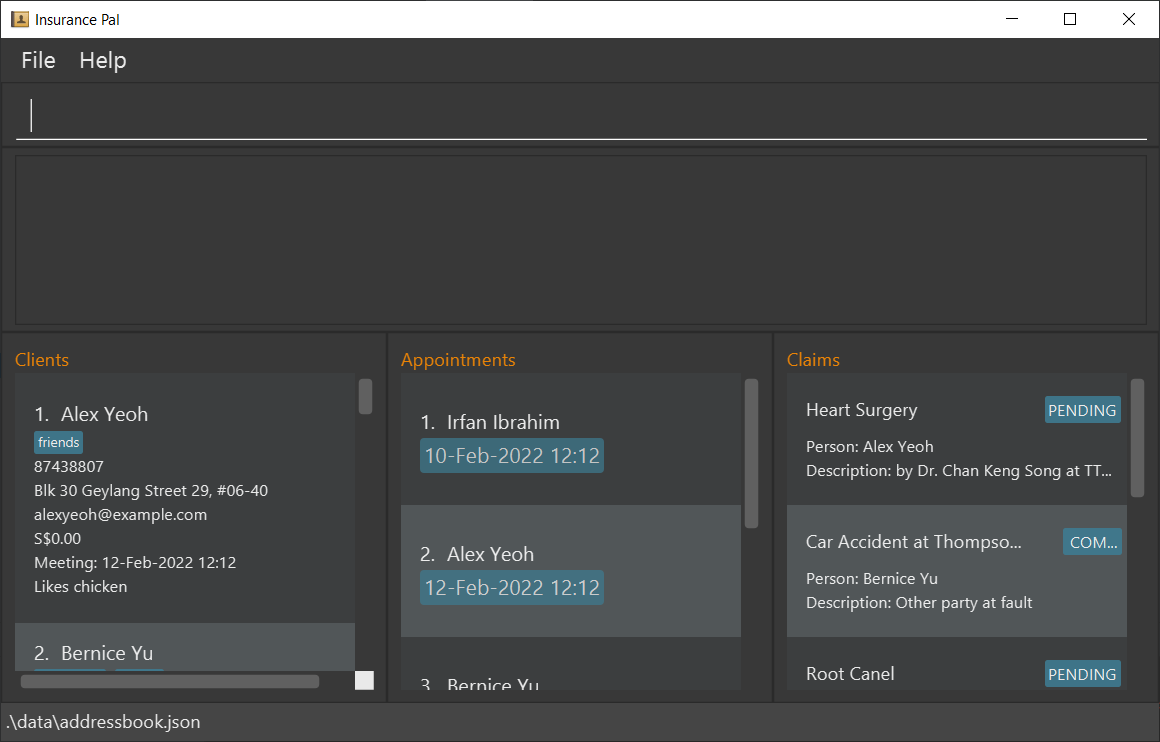
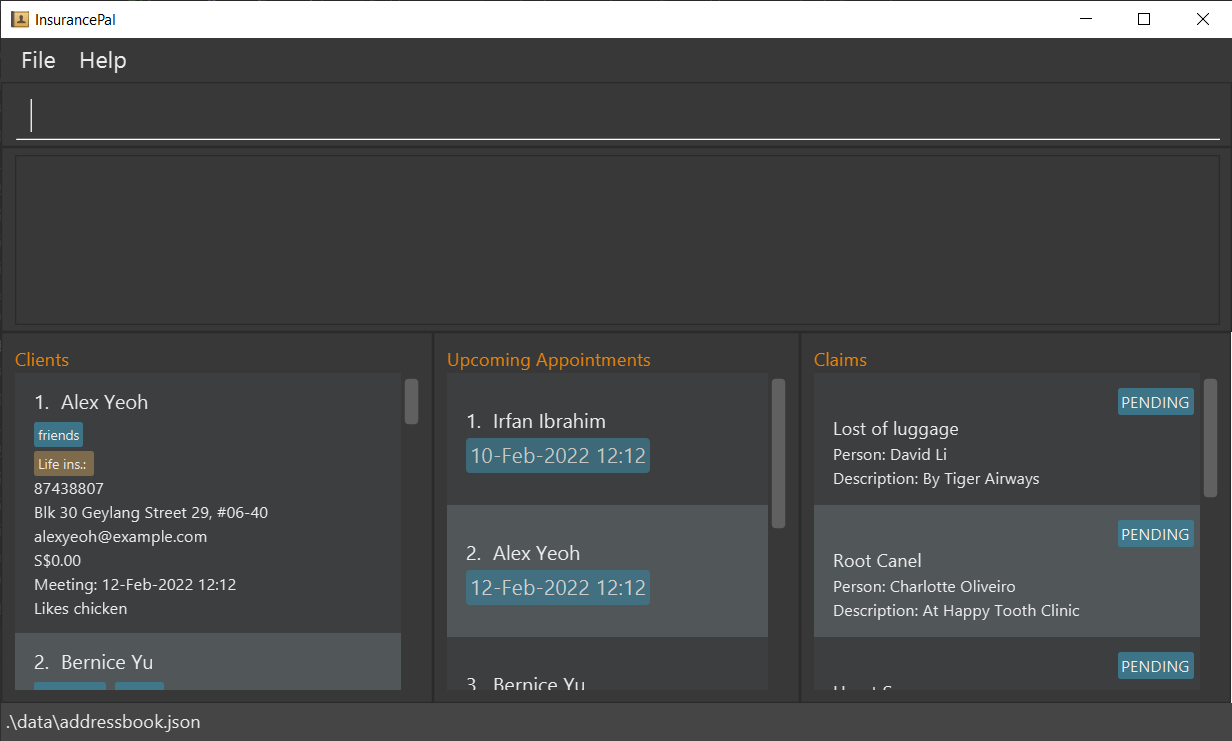
Add screenshots to UG

diff --git a/docs/_sass/minima/custom-styles.scss b/docs/_sass/minima/custom-styles.scss
@@ -38,3 +38,8 @@ h2, h3, h4, h5, h6 {
    }
 }
 
+.center-image {
+    margin: 0 auto;
+    display: block;
+}
+

diff --git a/docs/UserGuide.md b/docs/UserGuide.md
@@ -49,14 +49,17 @@ Action | Parameters| Description
 **Command Box:** You should enter your commands in this input box. More information about the commands can be found in [features](#features)<br>
 **Response Box:** You can see the outcomes of your commands in this text box. <br>
 **Client List:** You can see client information in this list. <br>
-**Upcoming Appointments List:** You can see upcoming appointments in this list. This list is sorted in chronological order. <br>
-**Claims List:** You can see the information about client's claims in this list. 
+**Upcoming Appointments List:** You can see upcoming appointments in this list. This list is sorted in chronological order. Expired appointments <em>are not</em> shown on this list<br>
+**Claims List:** You can see the information about client's claims in this list. Pending claims are placed before completed claims. The list is <em>not sorted</em> in any other way.
 
 <div markdown="span" class="alert alert-primary">:bulb: **Note:**
 The client list, upcoming appointments list and claims list are linked. For example, if you filtered for Alex Yeoh using the [find](#locating-clients-by-name-find) command, only Alex Yeoh's appointments and claims would show up in their respective lists. 
 </div>
 
 ## How to use this guide
+
+In this section, you will find the information you need to use this guide. This section will teach you
+how to interpret the command format and access the parameter constraints for each command
 
 ### Command Format
 * Words in `UPPER_CASE` are the parameters to be supplied by the user.<br>
@@ -89,10 +92,12 @@ This is a sample dropdown.
 </details>
 <br>
 * The response box will also display the parameter constraints if an invalid input is provided.
-![Response Box ](images/ResponseBoxInvalidInput.png){:width="550px"}
+![Response Box](images/ResponseBoxInvalidInput.png){:width="550px"}
 
 
 ## Features
+
+In this section, you will find information about the commands available for use in InsurancePal. 
 
 ### Viewing help : `help`
 
@@ -254,7 +259,9 @@ You can add a claim by providing the client index, a title, description and stat
 Format: `claim INDEX n/TITLE d/DESCRIPTION s/STATUS`
 
 Example:
-* If the first client <em>does not</em> have a claim titled "Heart Surgery", <br>`claim 1 n/Heart Surgery d/At TTSH s/Pending` will add a new claim with the corresponding values. 
+* If the first client <em>does not</em> have a claim titled "Heart Surgery", <br>`claim 1 n/Heart Surgery d/At TTSH s/Pending` will add a new claim with the corresponding values.
+  
+![AddClaimExample](images/AddClaimExample.png){:width="650px" .center-image}
 
 #### Editing a claim
 You can edit a claim by providing the client index, the title of the client's existing claim, followed by any modifications to the description and/or status you wish to make. 
@@ -265,6 +272,8 @@ Format: `claim INDEX n/TITLE [d/DESCRIPTION] [s/STATUS]`
 Example:
 * If the first client has a claim titled "Knee Surgery", <br> `claim 1 n/Knee Surgery d/Due to a fall` will change the description of the claim to "Due to a fall" while leaving the claim's status unmodified. 
 
+![EditClaimExample](images/EditClaimExample.png){:width="650px" .center-image}
+
 #### Deleting a claim
 You can delete a claim by providing the client index and the title of the client's existing claim.
 
@@ -273,6 +282,7 @@ Format `claim INDEX n/TITLE`
 Example:
 * If the first client has a claim titled "Knee Surgery", <br>`claim 1 n/Knee Surgery` will delete that claim.
 
+![DeleteClaimExample](images/DeleteClaimExample.png){:width="650px" .center-image}
 
 ### Add/Edit/Delete a note: `note`
 You can use the `note` command to add, edit or delete notes. You can view the parameter constraints below.
@@ -296,6 +306,8 @@ Format: `note INDEX no/NOTE`
 Example: 
 * If the first client does not have a note,  `note 1 no/Meet for lunch` will add a note to first client with the contents of "Meet for lunch".
 
+![AddNoteExampele](images/AddNoteExample.png){:width="650px" .center-image}
+
 #### Editing a note
 You can edit a note by providing a client index and the new contents of the note. 
 
@@ -304,6 +316,8 @@ Format: `note INDEX no/NOTE`
 Example:
 * If the first client has an existing note, `note 1 no/Cannot meet during weekends` will update the contents of the existing note to be "Cannot meet during weekends"
 
+![EditNoteExampele](images/EditNoteExample.png){:width="650px" .center-image}
+
 #### Deleting a note
 You can delete a note by providing a client index and an empty note field. 
 
@@ -311,6 +325,8 @@ Format: `note INDEX no/`
 
 Example:
 * If the first client has an existing note, `note 1 no/` will remove that note.
+
+![DeleteNoteExampele](images/DeleteNoteExample.png){:width="650px" .center-image}
 
 ### Add/Edit/Delete appointments: `schedule`
 You can use the `schedule` command to add, edit or delete appointments. You can view the parameter constraints below
@@ -334,6 +350,8 @@ Format: `schedule INDEX m/MEETING_TIME`
 Example: 
 * If the first client does not have an appointment, `schedule 1 m/05-feb-2022 15:30` will add an appointment to the first client with a meeting time on 5th February 2022 at 3.30pm.
 
+![AddScheduleExample](images/AddScheduleExample.png){:width="700px" .center-image}
+
 #### Editing an appointment
 You can edit an appointment by providing a client index and the new meeting time. 
 
@@ -342,6 +360,8 @@ Format: `schedule INDEX m/MEETING_TIME`
 Example: 
 * If the first client has an existing appointment, `schedule 1 m/05-Dec-2021 20:00` will update the appointment time to 5th December 2021 8pm
 
+![EditScheduleExample](images/EditScheduleExample.png){:width="700px" .center-image}
+
 #### Deleting an appointment
 You can delete an appointment by providing a client index and an empty meeting time field.
 
@@ -349,6 +369,8 @@ Format: `schedule INDEX m/`
 
 Examples:
 * If the first client has an existing appointment, `schedule 1 m/` will delete that appointment. 
+
+![DeleteScheduleExample](images/DeleteScheduleExample.png){:width="700px" .center-image}
 
 
 ### Modifying revenue: `revenue`
@@ -363,9 +385,14 @@ Format: `revenue INDEX r/AMOUNT`
 Examples:
 * `revenue 1 r/100.95` will update the revenue of first client in the contact list to be `100.95`. (Assuming revenue of
 the first client in the contact list was 0).
+
+![RevenueExample1](images/RevenueExample1.png){:width="650px" .center-image}
+
 * `add n/Betsy Crowe t/friend e/betsycrowe@example.com a/Newgate Prison p/1234567 t/criminal` (Assuming Betsy Crowe is
 the second client in the contact list) followed by `revenue 2 r/350` and followed by `revenue 2 r/-100.11` will update the
 revenue of Betsy Crowe to be `249.89`.
+
+![RevenueExample2](images/RevenueExample2.png){:width="700px" .center-image}
 
 <details markdown="1">
 
